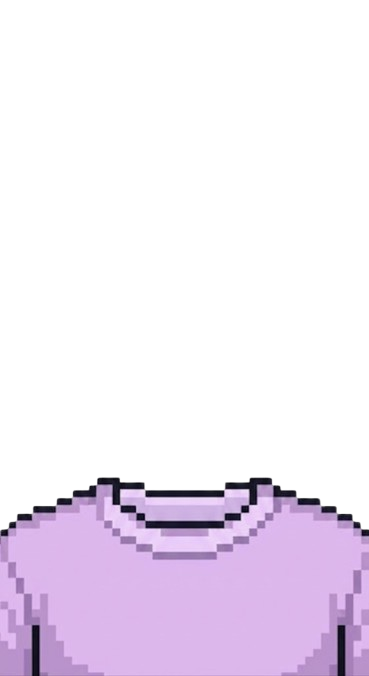
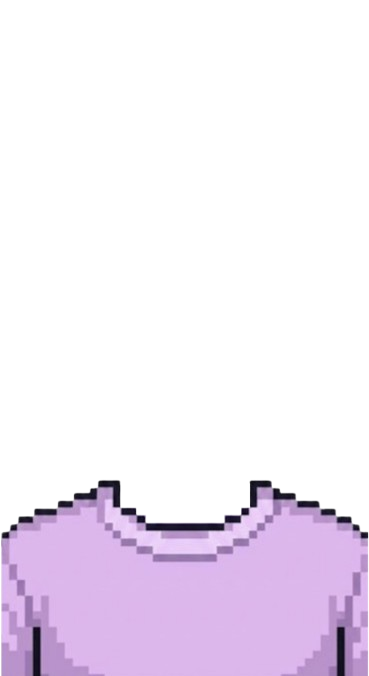
FIX: merge

diff --git a/src/AdivinaAdivinador/Juego.java b/src/AdivinaAdivinador/Juego.java
@@ -46,13 +46,10 @@ public class Juego {
 
         Jugador jugador1;
         if (modo == 1) {
-<<<<<<< HEAD
-            jugador1 = new JugadorHumano(new ArrayList<>(personajes), new ArrayList<>(preguntas), personajeSecretoJugador1, sistema);
+            jugador1 = new JugadorHumano(new ArrayList<>(personajes), new ArrayList<>(preguntas), personajeSecretoJugador1, sistema, comparadorDePreguntas);
             GameView gameView = new GameView(personajeSecretoJugador1, personajes);
 
-=======
-            jugador1 = new JugadorHumano(new ArrayList<>(personajes), new ArrayList<>(preguntas), personajeSecretoJugador1, sistema, comparadorDePreguntas);
->>>>>>> origin/main
+
         }
         else{
             jugador1 = new JugadorMaquina(new ArrayList<>(personajes), new ArrayList<>(preguntas), personajeSecretoJugador1, comparadorDePreguntas);

diff --git a/src/AdivinaAdivinador/Personajes/ResolverCapasPersonaje.java b/src/AdivinaAdivinador/Personajes/ResolverCapasPersonaje.java
@@ -31,8 +31,13 @@ public class ResolverCapasPersonaje {
             rutas.add(RAIZ + "Anteojos/anteojos" + valor + ".png");
         }
         if(c.usaGorro()){
-            valor = random.nextInt(1, 3);
-            rutas.add(RAIZ + "Anteojos/Sombrero" + valor + ".png");
+            if(c.getGenero() == Caracteristicas.Genero.HOMBRE){
+                valor = random.nextInt(1, 4);
+                rutas.add(RAIZ + "Sombrero/sombrero" + valor + ".png");
+            }
+            else{
+                rutas.add(RAIZ + "Sombrero/sombrero3.png");
+            }
         }
 
         
